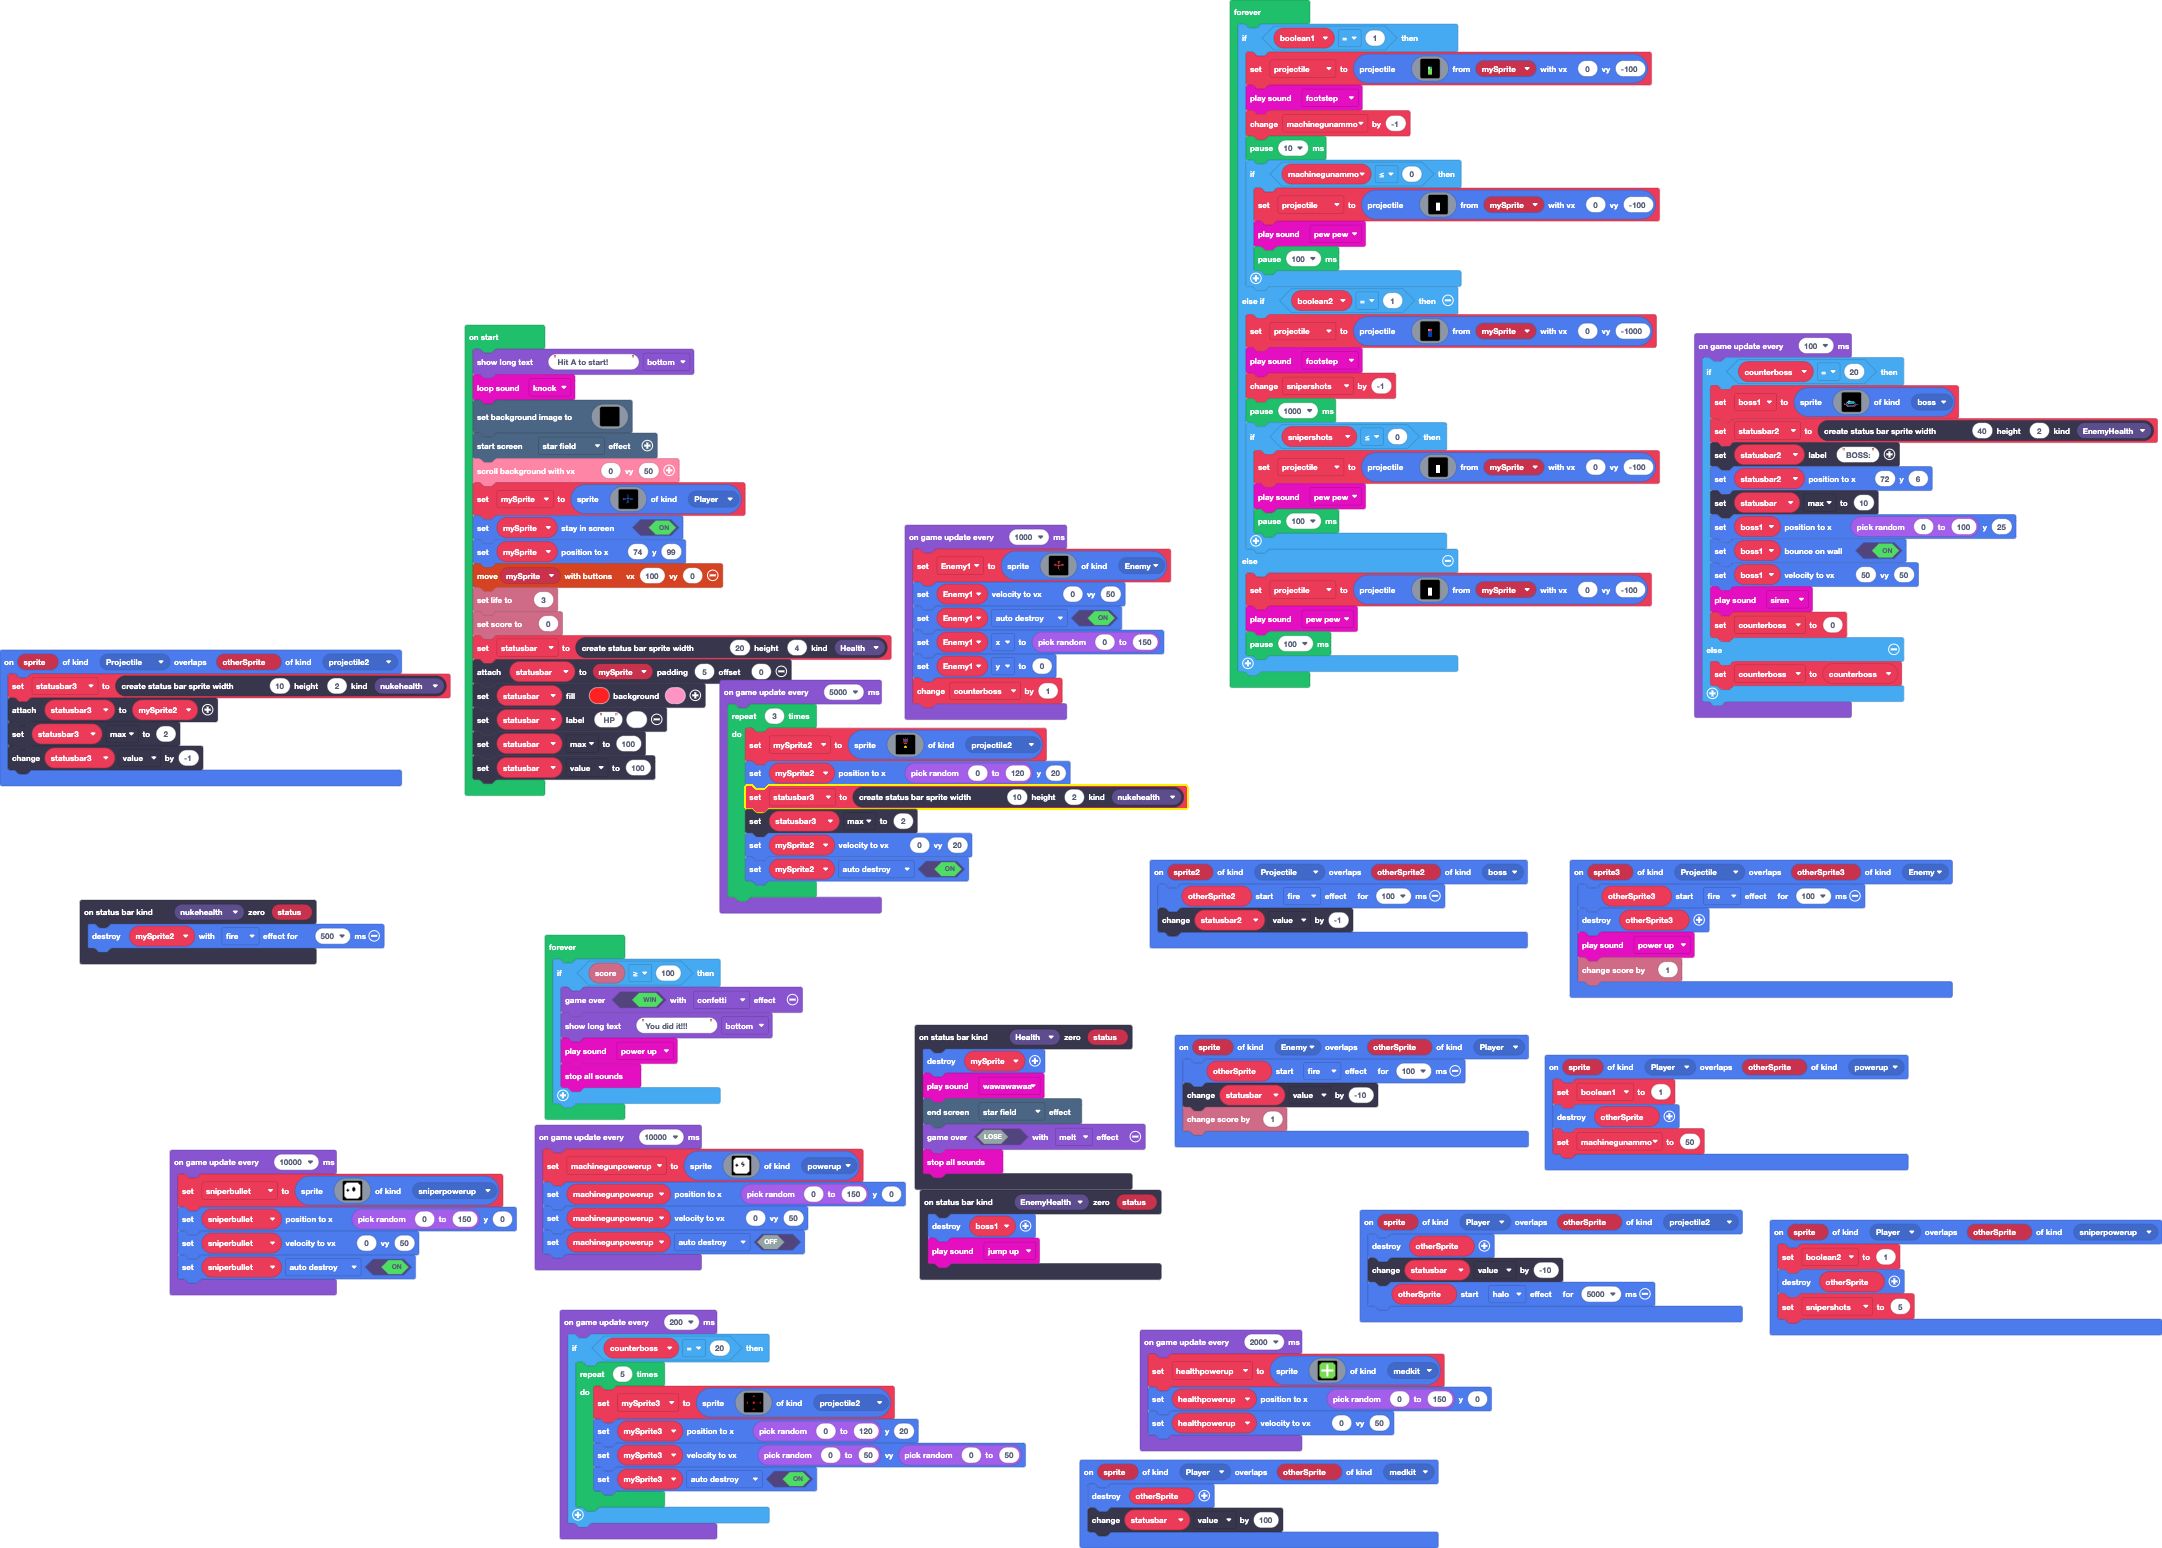
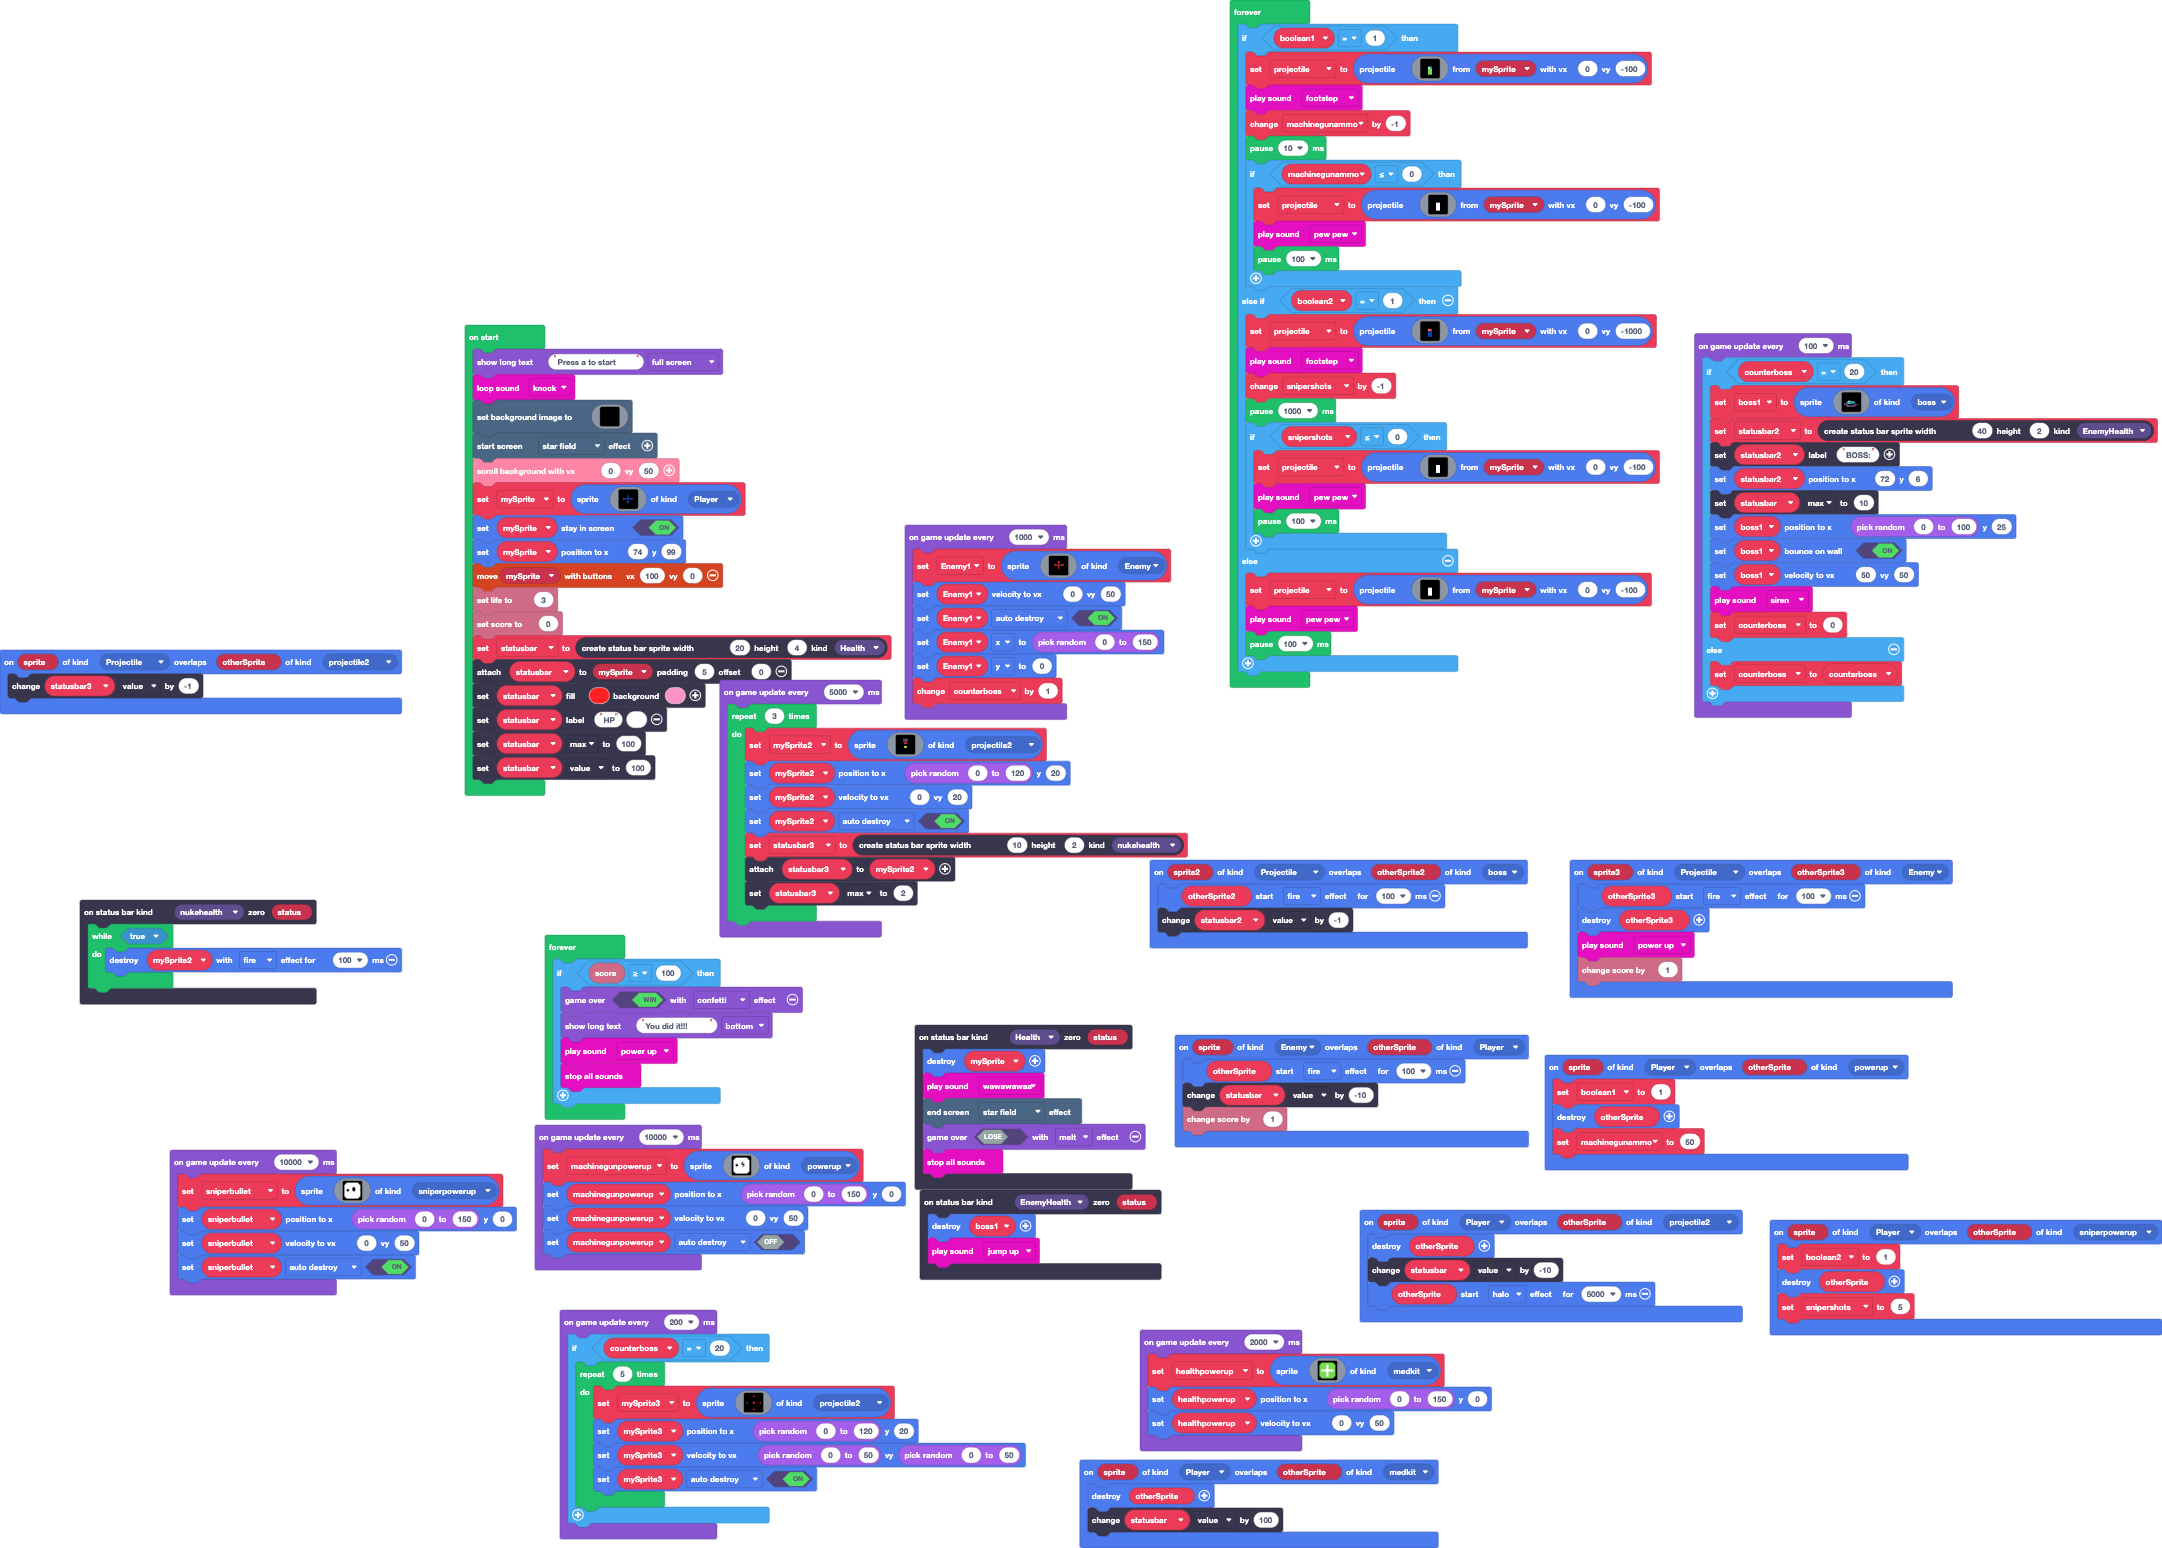
fixed nuke destruction

diff --git a/main.ts b/main.ts
@@ -24,7 +24,9 @@ statusbars.onZero(StatusBarKind.EnemyHealth, function (status) {
     music.jumpUp.play()
 })
 statusbars.onZero(StatusBarKind.nukehealth, function (status) {
-    mySprite2.destroy(effects.fire, 500)
+    while (true) {
+        mySprite2.destroy(effects.fire, 100)
+    }
 })
 statusbars.onZero(StatusBarKind.Health, function (status) {
     mySprite.destroy()
@@ -44,9 +46,6 @@ sprites.onOverlap(SpriteKind.Enemy, SpriteKind.Player, function (sprite, otherSp
     info.changeScoreBy(1)
 })
 sprites.onOverlap(SpriteKind.Projectile, SpriteKind.projectile2, function (sprite, otherSprite) {
-    statusbar3 = statusbars.create(10, 2, StatusBarKind.nukehealth)
-    statusbar3.attachToSprite(mySprite2)
-    statusbar3.max = 2
     statusbar3.value += -1
 })
 sprites.onOverlap(SpriteKind.Player, SpriteKind.powerup, function (sprite, otherSprite) {
@@ -81,7 +80,7 @@ let snipershots = 0
 let boolean2 = 0
 let statusbar: StatusBarSprite = null
 let mySprite: Sprite = null
-game.showLongText("Hit A to start!", DialogLayout.Bottom)
+game.showLongText("Press a to start", DialogLayout.Full)
 music.knock.loop()
 scene.setBackgroundImage(img`
     ffffffffffffffffffffffffffffffffffffffffffffffffffffffffffffffffffffffffffffffffffffffffffffffffffffffffffffffffffffffffffffffffffffffffffffffffffffffffffffffff
@@ -273,10 +272,11 @@ game.onUpdateInterval(5000, function () {
             ................
             `, SpriteKind.projectile2)
         mySprite2.setPosition(randint(0, 120), 20)
-        statusbar3 = statusbars.create(10, 2, StatusBarKind.nukehealth)
-        statusbar3.max = 2
         mySprite2.setVelocity(0, 20)
         mySprite2.setFlag(SpriteFlag.AutoDestroy, true)
+        statusbar3 = statusbars.create(10, 2, StatusBarKind.nukehealth)
+        statusbar3.attachToSprite(mySprite2)
+        statusbar3.max = 2
     }
 })
 game.onUpdateInterval(2000, function () {
